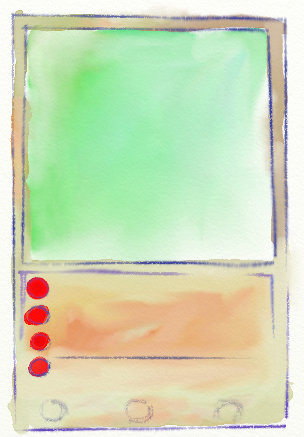
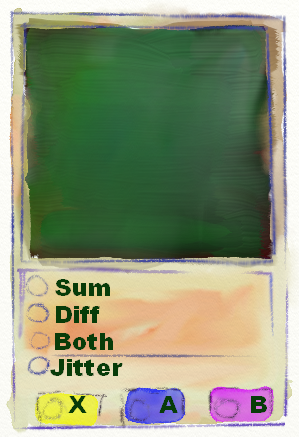
Update oscope with colors.

diff --git a/net.js b/net.js
@@ -7,7 +7,7 @@ class Wire {
    * @param {number} destinationX 
    * @param {number} destinationY 
    */
-  constructor(destinationX, destinationY) {
+  constructor(destinationX, destinationY, color1, color2) {
     this.x0 = destinationX;
     this.y0 = destinationY;
     this.paths = [];
@@ -17,9 +17,9 @@ class Wire {
       p.setAttribute("stroke-width", 4);
       this.paths.push(p);
     }
-    this.paths[0].setAttribute("stroke", "green");
+    this.paths[0].setAttribute("stroke", color1);
     this.paths[1].setAttribute("stroke-dasharray", "4 7");
-    this.paths[1].setAttribute("stroke", "LightGreen");
+    this.paths[1].setAttribute("stroke", color2);
     this.dragging = false;
     this.paths[1].addEventListener("mousedown",
       this.handleMouseDown.bind(this));
@@ -69,9 +69,9 @@ class Oscope {
     img.setAttribute("href", "img/oscope.png");
     this.body.appendChild(img);
 
-    this.xWire = new Wire(this.x + 50, this.y + 410);
-    this.aWire = new Wire(this.x + 140, this.y + 410);
-    this.bWire = new Wire(this.x + 230, this.y + 410);
+    this.xWire = new Wire(this.x + 50, this.y + 410, "Yellow", "Chocolate");
+    this.aWire = new Wire(this.x + 140, this.y + 410, "RoyalBlue", "MidnightBlue");
+    this.bWire = new Wire(this.x + 230, this.y + 410, "Orchid", "Indigo");
   }
 
   addTo(parent) {
